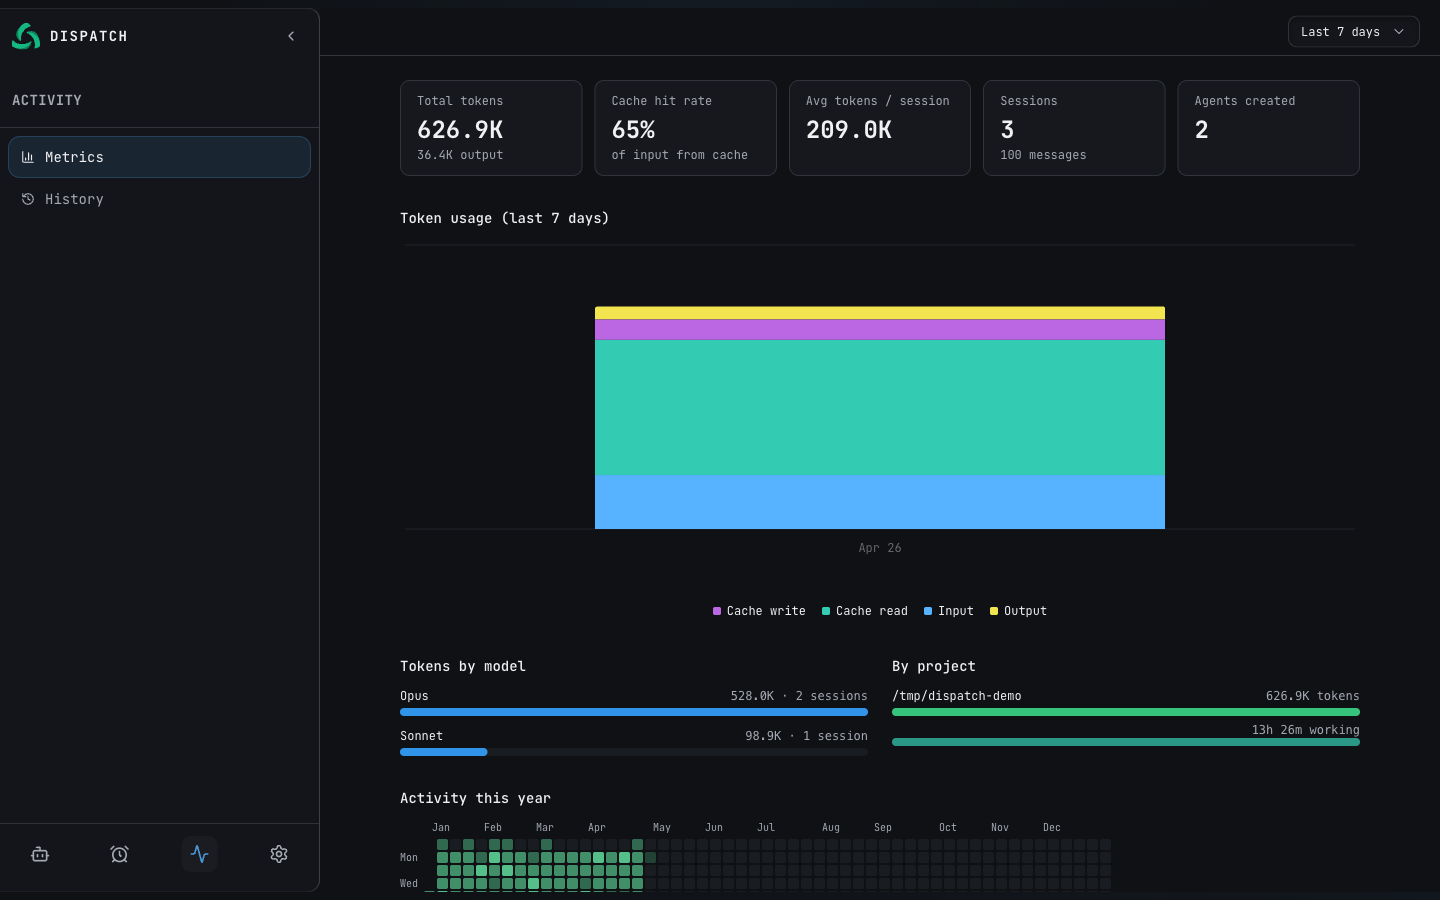
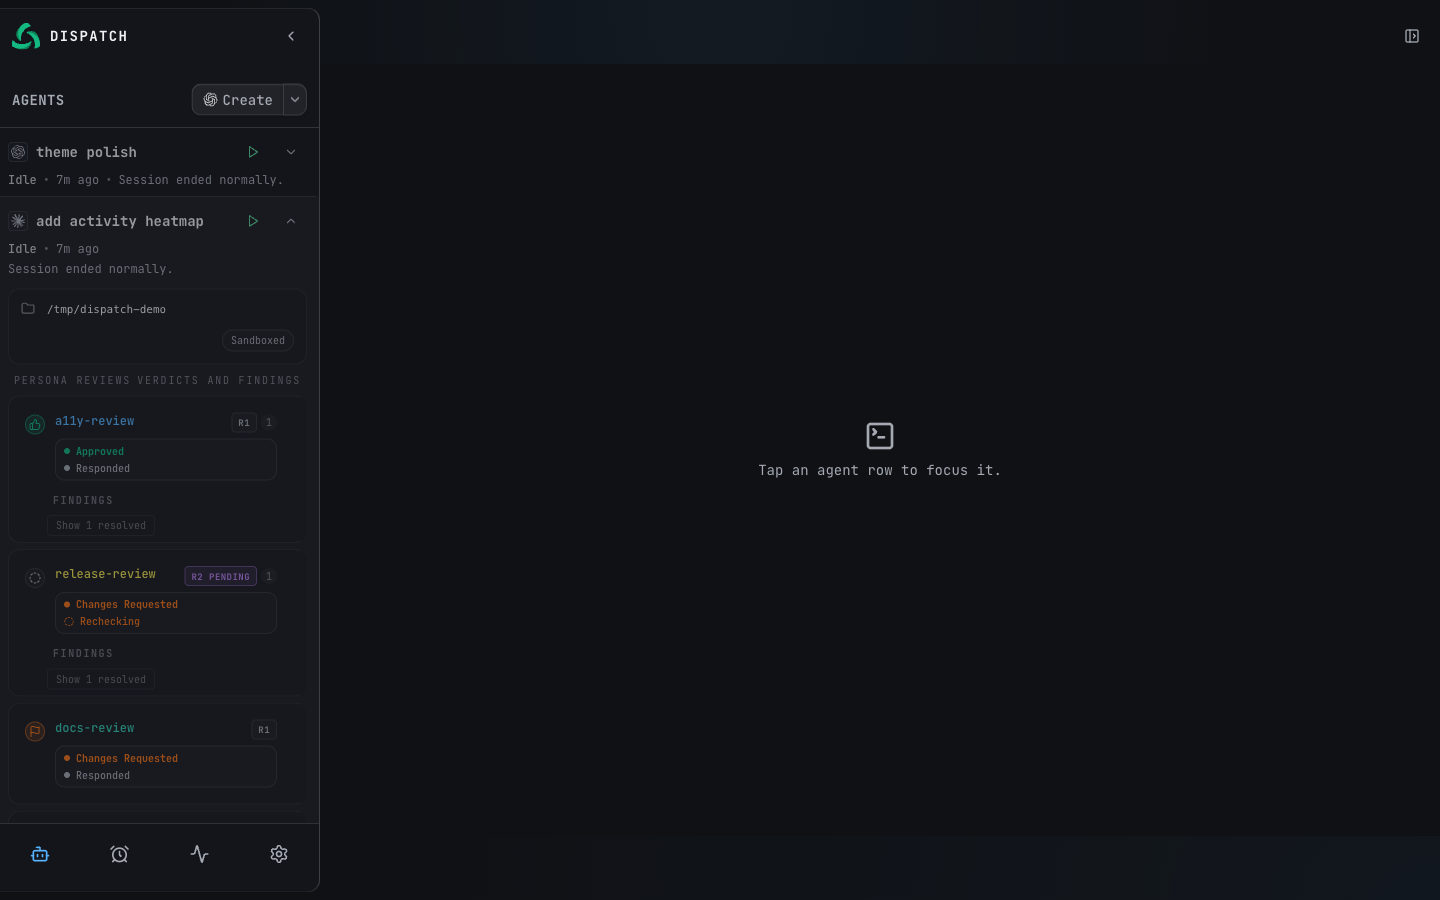
Address README review feedback

diff --git a/README.md b/README.md
@@ -9,7 +9,7 @@ Give this prompt to a coding agent to get Dispatch installed as a persistent ser
 > Clone https://github.com/selfcontained/dispatch.git and install it as a persistent service on this machine. Steps:
 >
 > 1. Clone the repo to `~/.dispatch/server`.
-> 2. Install system dependencies: **Bun 1.3+**, **PostgreSQL** (14+), **tmux**, and the agent CLI binaries you want Dispatch to launch. For source builds and local development, also install **pnpm**.
+> 2. Install system dependencies: **Bun 1.3+**, **PostgreSQL** (14+), **tmux**, and the agent CLI binaries you want Dispatch to launch. For source builds and local development, also install **Node 22+** (preferably via **nvm**) and **pnpm**.
 > 3. Start PostgreSQL and create the database: `createdb dispatch && psql dispatch -c "CREATE ROLE dispatch WITH LOGIN PASSWORD 'dispatch'; GRANT ALL ON DATABASE dispatch TO dispatch; GRANT ALL ON SCHEMA public TO dispatch;"`.
 > 4. If installing from source instead of a GitHub release artifact: `pnpm install && pnpm run build:bun`
 > 5. Copy `.env.example` to `.env`. The defaults work for local-only use. Set `DISPATCH_HOST=0.0.0.0` only when this machine should accept remote connections. On first visit to the web UI you will be prompted to set a password; sessions are stored as signed HTTP cookies.
@@ -48,13 +48,14 @@ Give this prompt to a coding agent to get Dispatch installed as a persistent ser
 
 ## Prerequisites
 
-| Dependency                 | Purpose                                                 | macOS                                        | Linux                                        |
-| -------------------------- | ------------------------------------------------------- | -------------------------------------------- | -------------------------------------------- |
-| **Bun 1.3+**               | Dispatch runtime and binary build tool                  | `curl -fsSL https://bun.com/install \| bash` | `curl -fsSL https://bun.com/install \| bash` |
-| **pnpm**                   | Package manager for source builds and local development | `npm i -g pnpm`                              | `npm i -g pnpm`                              |
-| **PostgreSQL 14+**         | Database                                                | `brew install postgresql@17`                 | `apt install postgresql`                     |
-| **tmux**                   | Agent session management                                | `brew install tmux`                          | `apt install tmux`                           |
-| **At least one agent CLI** | The agents Dispatch runs                                | See below                                    | See below                                    |
+| Dependency                 | Purpose                                                    | macOS                                        | Linux                                                                        |
+| -------------------------- | ---------------------------------------------------------- | -------------------------------------------- | ---------------------------------------------------------------------------- |
+| **Bun 1.3+**               | Dispatch runtime and binary build tool                     | `curl -fsSL https://bun.com/install \| bash` | `curl -fsSL https://bun.com/install \| bash`                                 |
+| **Node 22+**               | Local development, `bin/preflight`, and agent CLI installs | `brew install nvm && nvm install 22`         | Install Node 22 from your distro or use [nvm](https://github.com/nvm-sh/nvm) |
+| **pnpm**                   | Package manager for source builds and local development    | `npm i -g pnpm`                              | `npm i -g pnpm`                                                              |
+| **PostgreSQL 14+**         | Database                                                   | `brew install postgresql@17`                 | `apt install postgresql`                                                     |
+| **tmux**                   | Agent session management                                   | `brew install tmux`                          | `apt install tmux`                                                           |
+| **At least one agent CLI** | The agents Dispatch runs                                   | See below                                    | See below                                                                    |
 
 Dispatch currently uses a split toolchain:
 
